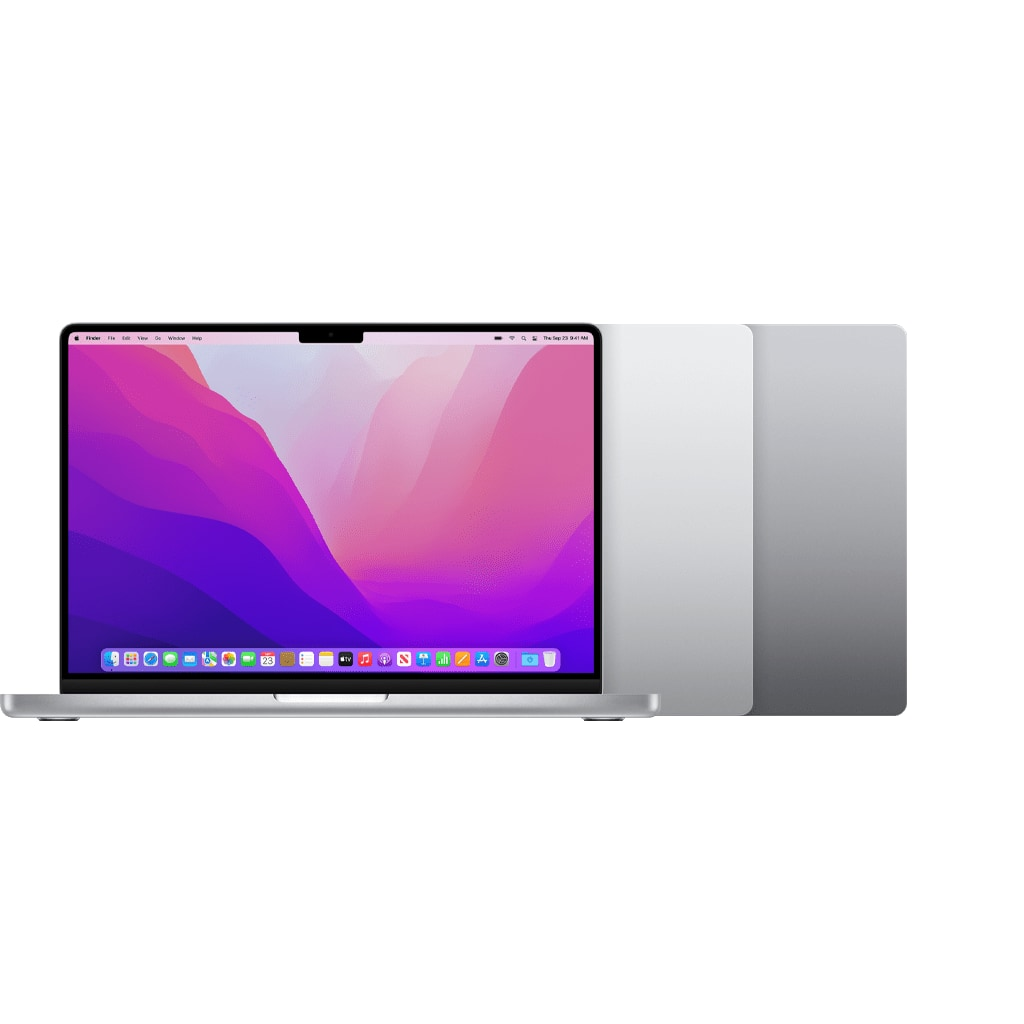
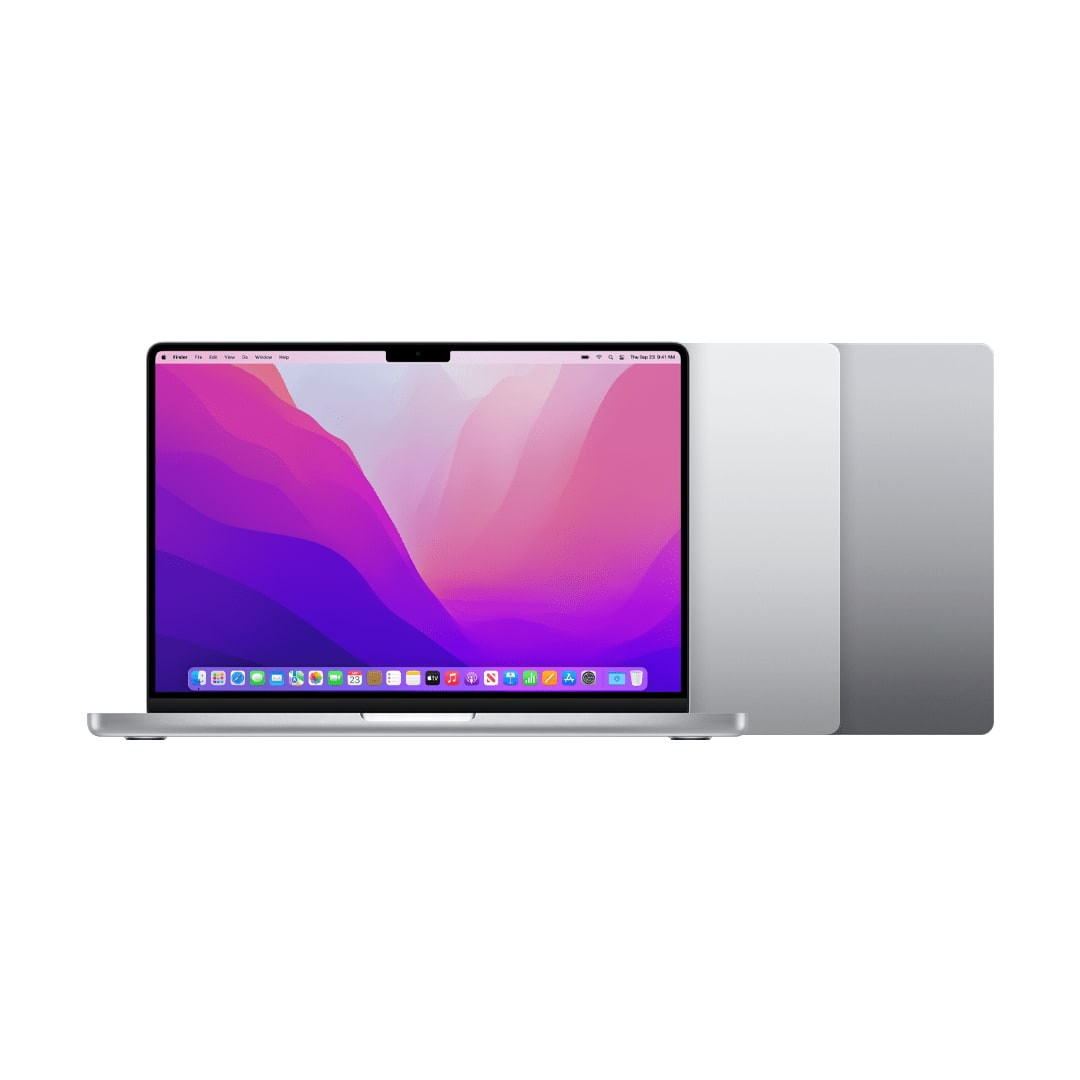
Send Meta a real square photo for every product, never the coming-soon placeholder.
MacBook Neo had no store shot, so its page and the Meta feed used the 'Image coming
soon' SVG. iPad images were WebP, and wide AirPods, MacBook and Watch photos showed
as thin strips in Instagram's square and 4:5 ads. Each feed image is now a 1080x1080
JPEG with the whole product centred.

Changed region(s): [[0.0, 0.3125, 0.9375, 0.7188]]

diff --git a/src/lib/mac/images.ts b/src/lib/mac/images.ts
@@ -19,6 +19,18 @@ import { getMacModel, type MacModel } from "./models";
 
 export const MAC_PLACEHOLDER = "/images/mac/placeholder.svg";
 
+/**
+ * A Mac without a store shot yet can still have its own launch photo
+ * (/images/mac/macbook-neo-card.jpg for macbook-neo-13). Use that before the
+ * "Image coming soon" placeholder, which must never reach a page preview or an ad feed.
+ */
+function ownPhoto(modelId: string): string | undefined {
+  const base = modelId.replace(/-\d+$/, "");
+  return [`/images/mac/${modelId}-card.jpg`, `/images/mac/${base}-card.jpg`, `/images/mac/${modelId}.jpg`, `/images/mac/${base}.jpg`].find(
+    (src) => publicFileExists(src),
+  );
+}
+
 export type ResolvedMacImage = {
   src: string;
   srcWebp?: string;
@@ -64,7 +76,7 @@ export function getMacImage(
   });
 
   if (kind === "overview") {
-    const ov = overviewSrc(modelId);
+    const ov = overviewSrc(modelId) || ownPhoto(modelId);
     return finish(
       ov || MAC_PLACEHOLDER,
       `${name}, all colours overview`,
@@ -75,10 +87,10 @@ export function getMacImage(
 
   if (kind === "product") {
     if (model && missingStoreShot(model)) {
-      const ov = overviewSrc(modelId);
+      const ov = overviewSrc(modelId) || ownPhoto(modelId);
       return finish(
         ov || MAC_PLACEHOLDER,
-        `${name}, colour overview (store shot coming soon)`,
+        `${name}, colour overview`,
         "overview",
         true,
       );
@@ -93,7 +105,7 @@ export function getMacImage(
         false,
       );
     }
-    const ov = overviewSrc(modelId);
+    const ov = overviewSrc(modelId) || ownPhoto(modelId);
     return finish(ov || MAC_PLACEHOLDER, `${name}, overview`, "overview", true);
   }
 
